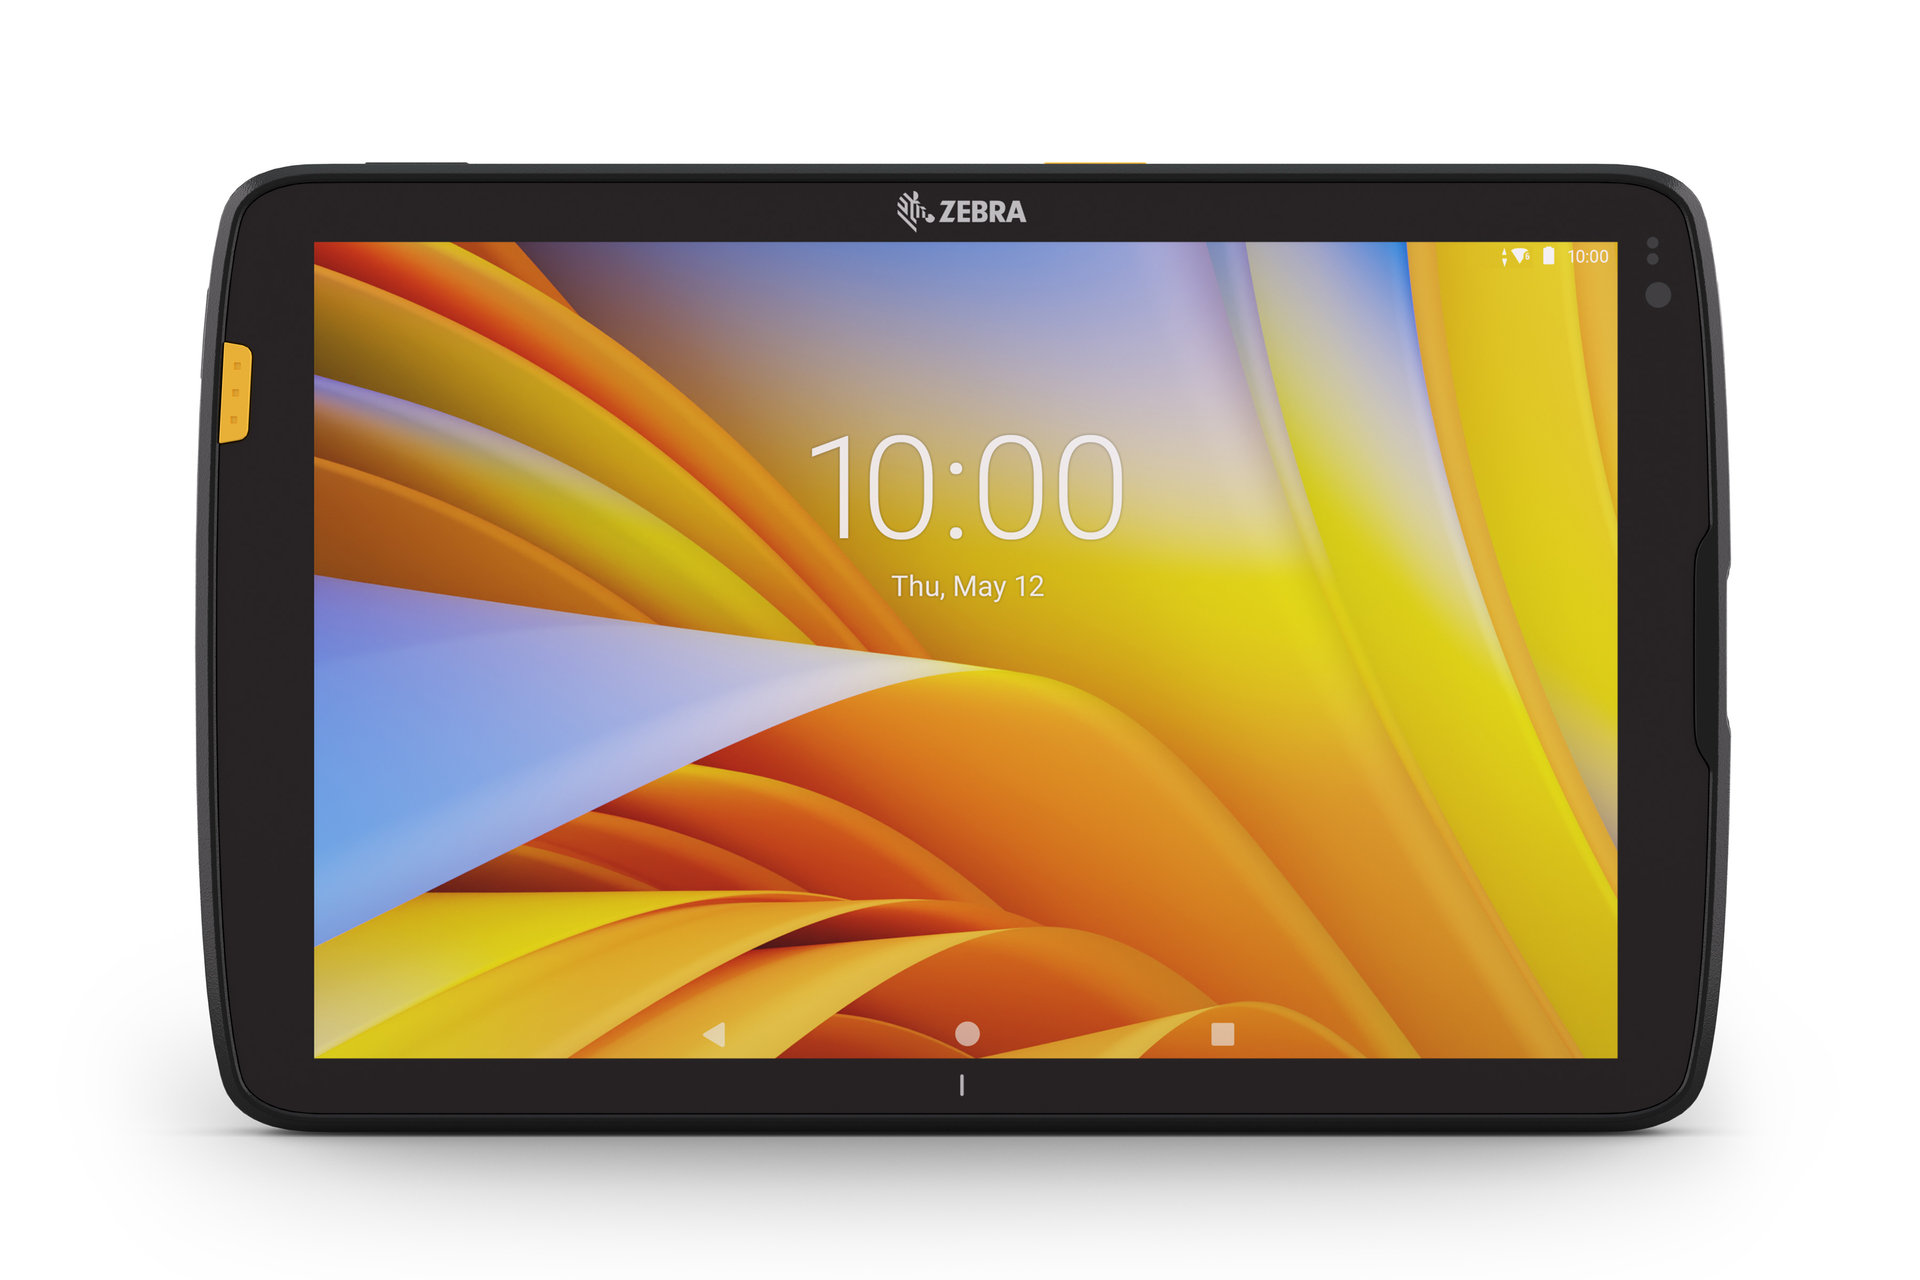
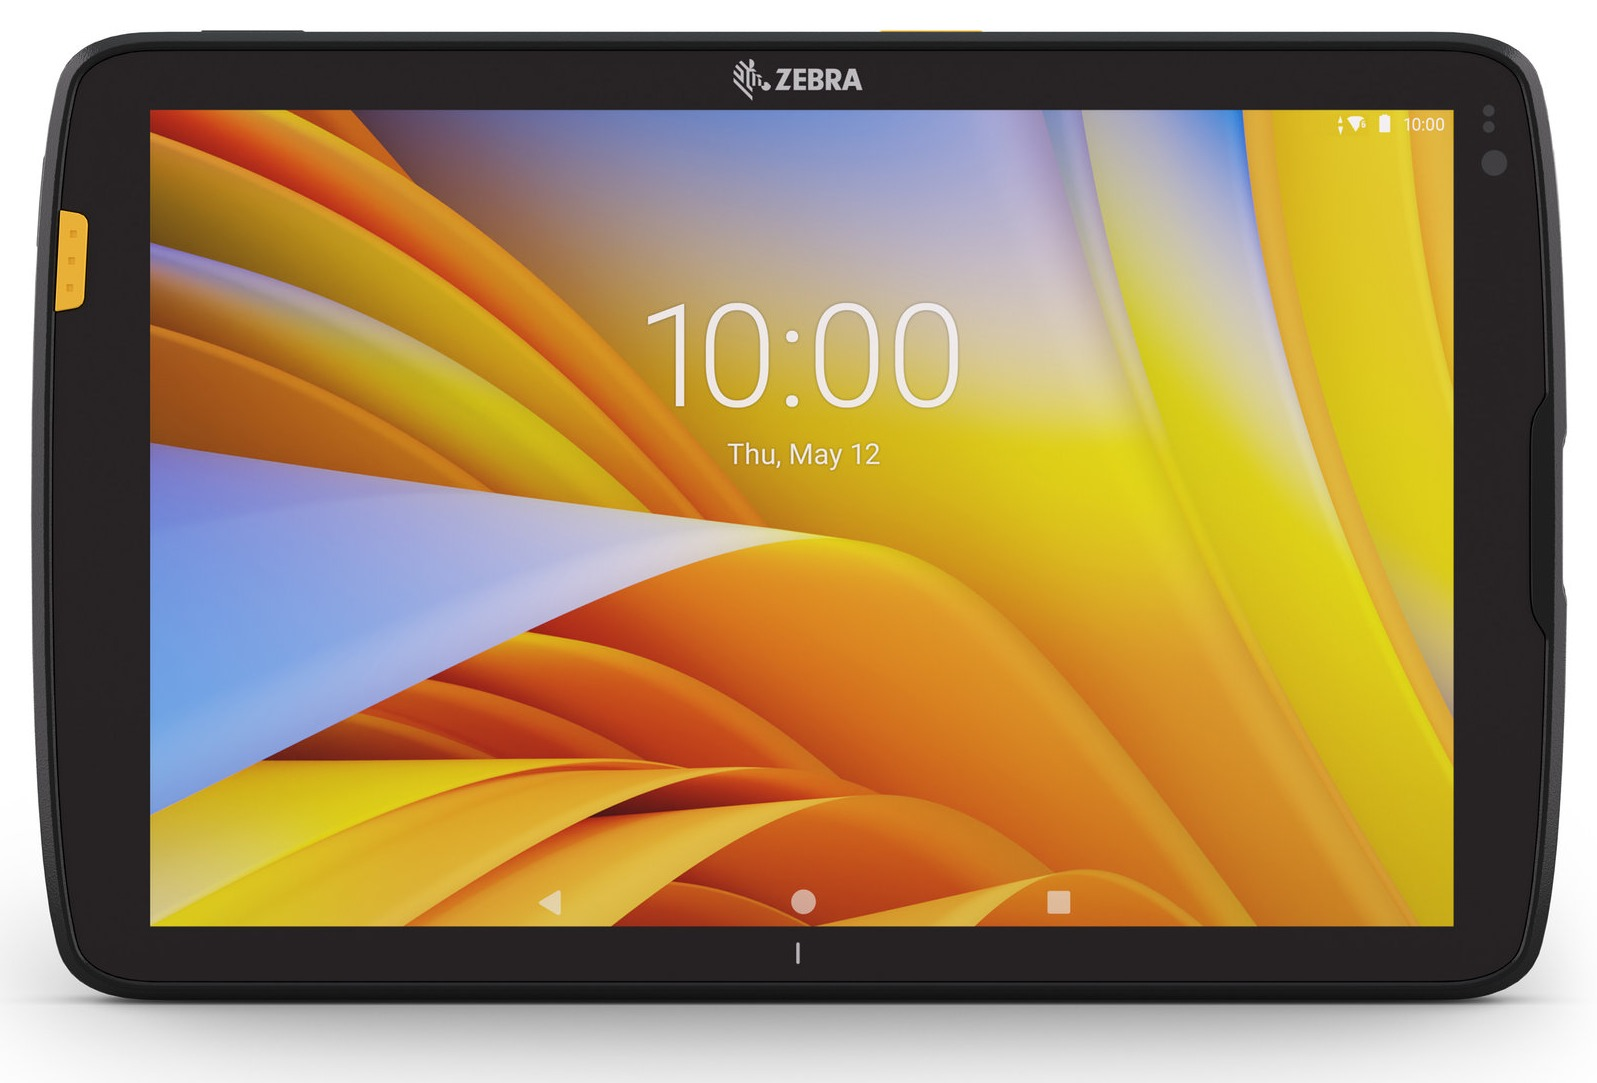
Marcha da maquina emulada e tablet maior
Emula o POU Start (Ladder) para ensinar a dar marcha:

  automatico -> carregar lote -> Marcha -> 3 s de pre-marcha -> RunMode

Quando RunMode sobe, os botoes de comando aparecem na tela, como na maquina.
Apertar Marcha sem lote nao faz nada - e o permissivo real do CLP, nao uma
limitacao da simulacao. Pausa (StopProcess) derruba a marcha.

Do mesmo POU vieram tambem: carregar e finalizar lote, o reset dos bits de
comando e o reset do modo automatico quando a emergencia cai.

Como ha temporizador, o simulador passou a rodar um scan periodico de 200 ms
em vez de reagir so a cliques.

Permissivos forcados no cenario: GeneralEMG e AirPressureOK em TRUE (os dois
sao TRUE quando esta tudo OK) e BatchManager.IsSaved em TRUE, para conseguir
carregar o lote. A maquina comeca sem lote, como de manha.

Tablet maior: a foto original era um product shot com muita margem branca.
Recortada ate o corpo do aparelho, a tela passou de 67,9% para 81,7% da
imagem, e a moldura agora ocupa 90% da altura util da secao.

Verificado no navegador: a sequencia completa, a temporizacao de 3 s e a
queda da marcha na pausa.

diff --git a/ls-b130/sim/logica.js b/ls-b130/sim/logica.js
@@ -1,9 +1,10 @@
 // ---------------------------------------------------------------------------
 // LOGICA DO CLP EMULADA EM JAVASCRIPT - PURA, roda em Node e no navegador.
 //
-// ATENCAO: este arquivo e uma COPIA da logica que roda no CLP, transcrita do
-// POU  POUs^Recipes^RecipesLogic  e de suas acoes RecipeValidation,
-// RecipeNameDuplicate, TimeCalculation, LiquidsList e PowdersList.
+// ATENCAO: este arquivo e uma COPIA da logica que roda no CLP, transcrita de:
+//   POUs^Recipes^RecipesLogic  (e as acoes RecipeValidation, RecipeNameDuplicate,
+//                               TimeCalculation, LiquidsList, PowdersList)
+//   POUs^Start                 (marcha, pre-marcha e comandos de lote - Ladder)
 //
 // Se alguem alterar o ST no projeto do CLP, ESTE ARQUIVO FICA DESATUALIZADO em
 // silencio. Ele existe para que a simulacao se comporte como a maquina em
@@ -214,6 +215,67 @@
     }
   }
 
+  // =========================================================================
+  // PROGRAM Start  (Ladder) - marcha da maquina
+  // =========================================================================
+  // Sequencia real: passar para automatico, carregar um lote e apertar Marcha.
+  // A pre-marcha segura por 3 s e so entao a maquina entra em marcha, que e
+  // quando os botoes de comando aparecem na tela.
+  //
+  // Polaridade importante: GeneralEMG e AirPressureOK sao TRUE quando esta
+  // tudo OK - quando GeneralEMG cai, o CLP derruba o modo automatico.
+  const G = P + 'MainGVL.';
+  const B = P + 'BatchManager.';
+  const LOTE = P + 'Batches.BatchLoaded';
+  const PRE_RUN = P + 'Start.PreRun';        // variavel local do POU, nao mapeada
+
+  var tonInicio = null;                      // TON_PreRun: instante em que ligou
+  var loteAntes = false;                     // deteccao de borda de BatchLoaded
+
+  const PRE_MARCHA_MS = 3000;                // t#3s no Ladder
+
+  function startCiclo(agora) {
+    // Rung "Reset do modo automatico"
+    if (!ler(G + 'GeneralEMG')) escrever(G + 'AutoMode', false);
+
+    // Rung "Comando para carregar lote": seta BatchLoaded e limpa o comando
+    if (ler(B + 'LoadBatch')) {
+      escrever(LOTE, true);
+      escrever(B + 'LoadBatch', false);
+    }
+
+    // Rung "Comando para finalizar lote"
+    if (ler(B + 'UnloadBatch')) {
+      escrever(LOTE, false);
+      escrever(B + 'UnloadBatch', false);
+    }
+
+    // Rung "Reseta os dados de consumo": borda de subida de BatchLoaded
+    const lote = !!ler(LOTE);
+    if (lote && !loteAntes) escrever(P + 'Consumption.ResetConsumption', true);
+    loteAntes = lote;
+
+    // Rung "Posta em pre marcha" - com selo (a propria PreRun se mantem)
+    const partida = !!ler(G + 'StartTreatment') && !!ler(G + 'AirPressureOK') && !ler(G + 'RunMode');
+    const permissivos = !!ler(G + 'AutoMode') && !ler(G + 'StopProcess') &&
+                        !!ler(G + 'GeneralEMG') && lote;
+    const preRun = (partida || !!ler(PRE_RUN)) && permissivos;
+    escrever(PRE_RUN, preRun);
+
+    // Rung "Tempo de pre marcha" (TON) + "Inicio da marcha"
+    if (!preRun) {
+      tonInicio = null;
+    } else if (tonInicio === null) {
+      tonInicio = agora;
+    }
+    const emMarcha = preRun && tonInicio !== null && (agora - tonInicio) >= PRE_MARCHA_MS;
+    escrever(G + 'RunMode', emMarcha);
+
+    // Rung "Reset dos comandos": os bits de comando sao de um ciclo so
+    if (ler(G + 'StartTreatment')) escrever(G + 'StartTreatment', false);
+    if (ler(G + 'StopProcess')) escrever(G + 'StopProcess', false);
+  }
+
   // --- corpo do PROGRAM RecipesLogic ---------------------------------------
   function umCiclo() {
     if ((Number(ler(L + 'RecipeIndex')) || 0) === 0) escrever(L + 'RecipeIndex', OFF_LIB);
@@ -282,7 +344,8 @@
 
   // Alguns comandos setam outros (ExcludeRecipe liga Refresh). No CLP isso
   // resolve no ciclo seguinte; aqui rodamos ate estabilizar.
-  function ciclo() {
+  function ciclo(agora) {
+    startCiclo(typeof agora === 'number' ? agora : Date.now());
     for (let i = 0; i < 6; i++) {
       umCiclo();
       if (!pendente()) break;

diff --git a/nucleo/logica.js b/nucleo/logica.js
@@ -1,9 +1,10 @@
 // ---------------------------------------------------------------------------
 // LOGICA DO CLP EMULADA EM JAVASCRIPT - PURA, roda em Node e no navegador.
 //
-// ATENCAO: este arquivo e uma COPIA da logica que roda no CLP, transcrita do
-// POU  POUs^Recipes^RecipesLogic  e de suas acoes RecipeValidation,
-// RecipeNameDuplicate, TimeCalculation, LiquidsList e PowdersList.
+// ATENCAO: este arquivo e uma COPIA da logica que roda no CLP, transcrita de:
+//   POUs^Recipes^RecipesLogic  (e as acoes RecipeValidation, RecipeNameDuplicate,
+//                               TimeCalculation, LiquidsList, PowdersList)
+//   POUs^Start                 (marcha, pre-marcha e comandos de lote - Ladder)
 //
 // Se alguem alterar o ST no projeto do CLP, ESTE ARQUIVO FICA DESATUALIZADO em
 // silencio. Ele existe para que a simulacao se comporte como a maquina em
@@ -214,6 +215,67 @@
     }
   }
 
+  // =========================================================================
+  // PROGRAM Start  (Ladder) - marcha da maquina
+  // =========================================================================
+  // Sequencia real: passar para automatico, carregar um lote e apertar Marcha.
+  // A pre-marcha segura por 3 s e so entao a maquina entra em marcha, que e
+  // quando os botoes de comando aparecem na tela.
+  //
+  // Polaridade importante: GeneralEMG e AirPressureOK sao TRUE quando esta
+  // tudo OK - quando GeneralEMG cai, o CLP derruba o modo automatico.
+  const G = P + 'MainGVL.';
+  const B = P + 'BatchManager.';
+  const LOTE = P + 'Batches.BatchLoaded';
+  const PRE_RUN = P + 'Start.PreRun';        // variavel local do POU, nao mapeada
+
+  var tonInicio = null;                      // TON_PreRun: instante em que ligou
+  var loteAntes = false;                     // deteccao de borda de BatchLoaded
+
+  const PRE_MARCHA_MS = 3000;                // t#3s no Ladder
+
+  function startCiclo(agora) {
+    // Rung "Reset do modo automatico"
+    if (!ler(G + 'GeneralEMG')) escrever(G + 'AutoMode', false);
+
+    // Rung "Comando para carregar lote": seta BatchLoaded e limpa o comando
+    if (ler(B + 'LoadBatch')) {
+      escrever(LOTE, true);
+      escrever(B + 'LoadBatch', false);
+    }
+
+    // Rung "Comando para finalizar lote"
+    if (ler(B + 'UnloadBatch')) {
+      escrever(LOTE, false);
+      escrever(B + 'UnloadBatch', false);
+    }
+
+    // Rung "Reseta os dados de consumo": borda de subida de BatchLoaded
+    const lote = !!ler(LOTE);
+    if (lote && !loteAntes) escrever(P + 'Consumption.ResetConsumption', true);
+    loteAntes = lote;
+
+    // Rung "Posta em pre marcha" - com selo (a propria PreRun se mantem)
+    const partida = !!ler(G + 'StartTreatment') && !!ler(G + 'AirPressureOK') && !ler(G + 'RunMode');
+    const permissivos = !!ler(G + 'AutoMode') && !ler(G + 'StopProcess') &&
+                        !!ler(G + 'GeneralEMG') && lote;
+    const preRun = (partida || !!ler(PRE_RUN)) && permissivos;
+    escrever(PRE_RUN, preRun);
+
+    // Rung "Tempo de pre marcha" (TON) + "Inicio da marcha"
+    if (!preRun) {
+      tonInicio = null;
+    } else if (tonInicio === null) {
+      tonInicio = agora;
+    }
+    const emMarcha = preRun && tonInicio !== null && (agora - tonInicio) >= PRE_MARCHA_MS;
+    escrever(G + 'RunMode', emMarcha);
+
+    // Rung "Reset dos comandos": os bits de comando sao de um ciclo so
+    if (ler(G + 'StartTreatment')) escrever(G + 'StartTreatment', false);
+    if (ler(G + 'StopProcess')) escrever(G + 'StopProcess', false);
+  }
+
   // --- corpo do PROGRAM RecipesLogic ---------------------------------------
   function umCiclo() {
     if ((Number(ler(L + 'RecipeIndex')) || 0) === 0) escrever(L + 'RecipeIndex', OFF_LIB);
@@ -282,7 +344,8 @@
 
   // Alguns comandos setam outros (ExcludeRecipe liga Refresh). No CLP isso
   // resolve no ciclo seguinte; aqui rodamos ate estabilizar.
-  function ciclo() {
+  function ciclo(agora) {
+    startCiclo(typeof agora === 'number' ? agora : Date.now());
     for (let i = 0; i < 6; i++) {
       umCiclo();
       if (!pendente()) break;

diff --git a/ls-b130/index.html b/ls-b130/index.html
@@ -137,7 +137,7 @@
 (function(){
   'use strict';
 
-  var CFG = {"id":"ls-b130","nome":"LS-B130","tablet":{"modelo":"Zebra ET40 10\"","foto":"tablet.jpg","fotoLargura":1920,"fotoAltura":1280,"resolucao":{"largura":1280,"altura":800},"_comentario":"Retangulo da tela dentro da foto, medido pixel a pixel e expresso em % da imagem. A proporcao da tela (1,596) bate com a da IHM (1,600), entao o encaixe nao distorce.","tela":{"esquerda":16.354,"topo":18.906,"largura":67.917,"altura":63.828},"larguraMinima":1200,"alturaMinima":640}};
+  var CFG = {"id":"ls-b130","nome":"LS-B130","tablet":{"modelo":"Zebra ET40 10\"","foto":"tablet.jpg","fotoLargura":1597,"fotoAltura":1083,"resolucao":{"largura":1280,"altura":800},"_comentario":"Foto recortada ate o corpo do aparelho (a original tinha muita margem branca). Retangulo da tela medido pixel a pixel, em % da imagem recortada. A proporcao da tela (1,596) bate com a da IHM (1,600), entao o encaixe nao distorce.","tela":{"esquerda":9.393,"topo":10.157,"largura":81.653,"altura":75.439},"larguraMinima":1200,"alturaMinima":640,"ocupacaoAltura":0.9}};
 
   var TEXTOS = {
     pt:{ portal:'Portal', tablet:'Tablet', cheia:'Tela cheia', reiniciar:'Reiniciar',

diff --git a/ls-b130/sim/valores.js b/ls-b130/sim/valores.js
@@ -169,8 +169,17 @@ for (let dose = 0; dose < 20; dose++) {
   'PLC1.MainGVL.RunMode': false,
   'PLC1.MainGVL.AutoMode': false,
   'PLC1.MainGVL.SimulationMode': true,
+
+  // Permissivos de seguranca. Os dois sao TRUE quando esta tudo OK: no CLP,
+  // quando GeneralEMG cai, o modo automatico e derrubado e a marcha nao sobe.
   'PLC1.MainGVL.AirPressureOK': true,
-  'PLC1.MainGVL.GeneralEMG': false,
+  'PLC1.MainGVL.GeneralEMG': true,
+
+  // A maquina comeca parada e SEM lote, como de manha. A sequencia de
+  // treinamento e: carregar o lote na ordem de producao, passar para
+  // automatico e apertar Marcha (3 s de pre-marcha ate RunMode subir).
+  'PLC1.Batches.BatchLoaded': false,
+  'PLC1.BatchManager.IsSaved': true,
 
   // Tabelas de produtos e seus comboboxes
   'PLC1.Liquids.LiquidsTable': montarTabela(LIQUIDOS, 64),

diff --git a/maquinas/ls-b130/valores.js b/maquinas/ls-b130/valores.js
@@ -169,8 +169,17 @@ for (let dose = 0; dose < 20; dose++) {
   'PLC1.MainGVL.RunMode': false,
   'PLC1.MainGVL.AutoMode': false,
   'PLC1.MainGVL.SimulationMode': true,
+
+  // Permissivos de seguranca. Os dois sao TRUE quando esta tudo OK: no CLP,
+  // quando GeneralEMG cai, o modo automatico e derrubado e a marcha nao sobe.
   'PLC1.MainGVL.AirPressureOK': true,
-  'PLC1.MainGVL.GeneralEMG': false,
+  'PLC1.MainGVL.GeneralEMG': true,
+
+  // A maquina comeca parada e SEM lote, como de manha. A sequencia de
+  // treinamento e: carregar o lote na ordem de producao, passar para
+  // automatico e apertar Marcha (3 s de pre-marcha ate RunMode subir).
+  'PLC1.Batches.BatchLoaded': false,
+  'PLC1.BatchManager.IsSaved': true,
 
   // Tabelas de produtos e seus comboboxes
   'PLC1.Liquids.LiquidsTable': montarTabela(LIQUIDOS, 64),

diff --git a/ls-b130/sim/protocolo.js b/ls-b130/sim/protocolo.js
@@ -143,6 +143,13 @@
       return sessao;
     }
 
+    // Um scan do CLP: roda a logica e empurra o que mudou para os inscritos.
+    // Precisa ser periodico porque ha temporizador (a pre-marcha de 3 s).
+    function scan() {
+      logica.ciclo(Date.now());
+      difundir();
+    }
+
     // Deixa o cenario coerente antes do primeiro cliente.
     function arrancar() {
       logica.listasDeProdutos();
@@ -151,7 +158,7 @@
     }
 
     return {
-      estadoDoServidor, novaSessao, arrancar, difundir, valorDe,
+      estadoDoServidor, novaSessao, arrancar, difundir, scan, valorDe,
       simbolosDesconhecidos: () => Object.fromEntries(desconhecidos)
     };
   }

diff --git a/nucleo/protocolo.js b/nucleo/protocolo.js
@@ -143,6 +143,13 @@
       return sessao;
     }
 
+    // Um scan do CLP: roda a logica e empurra o que mudou para os inscritos.
+    // Precisa ser periodico porque ha temporizador (a pre-marcha de 3 s).
+    function scan() {
+      logica.ciclo(Date.now());
+      difundir();
+    }
+
     // Deixa o cenario coerente antes do primeiro cliente.
     function arrancar() {
       logica.listasDeProdutos();
@@ -151,7 +158,7 @@
     }
 
     return {
-      estadoDoServidor, novaSessao, arrancar, difundir, valorDe,
+      estadoDoServidor, novaSessao, arrancar, difundir, scan, valorDe,
       simbolosDesconhecidos: () => Object.fromEntries(desconhecidos)
     };
   }

diff --git a/ls-b130/sim/sim.js b/ls-b130/sim/sim.js
@@ -58,6 +58,13 @@
   const protocolo = window.SimProtocolo.criar({ esquema: esquema, estado: estado, logica: logica });
   protocolo.arrancar();
 
+  // O CLP varre continuamente. Sem isso, temporizadores como a pre-marcha de
+  // 3 s da marcha nunca avancariam, porque o simulador so reagia a cliques.
+  const INTERVALO_SCAN = 200;
+  setInterval(function () {
+    try { protocolo.scan(); } catch (e) { console.error('[sim] erro no scan:', e); }
+  }, INTERVALO_SCAN);
+
   // Util para depurar pelo console do navegador.
   window.SIM = {
     ler: estado.ler,

diff --git a/web/sim.js b/web/sim.js
@@ -58,6 +58,13 @@
   const protocolo = window.SimProtocolo.criar({ esquema: esquema, estado: estado, logica: logica });
   protocolo.arrancar();
 
+  // O CLP varre continuamente. Sem isso, temporizadores como a pre-marcha de
+  // 3 s da marcha nunca avancariam, porque o simulador so reagia a cliques.
+  const INTERVALO_SCAN = 200;
+  setInterval(function () {
+    try { protocolo.scan(); } catch (e) { console.error('[sim] erro no scan:', e); }
+  }, INTERVALO_SCAN);
+
   // Util para depurar pelo console do navegador.
   window.SIM = {
     ler: estado.ler,

diff --git a/README.md b/README.md
@@ -40,9 +40,20 @@ e abrir a simulação com `?reset=1` devolve tudo ao cenário inicial.
 
 ## ⚠ Sobre `nucleo/logica.js`
 
-Esse arquivo é uma **cópia, em JavaScript, de lógica que roda no CLP** — transcrita do POU
-`POUs^Recipes^RecipesLogic` e de suas ações (`RecipeValidation`, `RecipeNameDuplicate`,
-`TimeCalculation`, `LiquidsList`, `PowdersList`).
+Esse arquivo é uma **cópia, em JavaScript, de lógica que roda no CLP** — transcrita de:
+
+- `POUs^Recipes^RecipesLogic` e suas ações (`RecipeValidation`, `RecipeNameDuplicate`,
+  `TimeCalculation`, `LiquidsList`, `PowdersList`)
+- `POUs^Start` (Ladder) — marcha, pré-marcha e comandos de lote
+
+A marcha segue a sequência real da máquina: **passar para automático → carregar um lote →
+apertar Marcha**, com 3 s de pré-marcha antes de `RunMode` subir, quando os botões de comando
+aparecem. Apertar Marcha sem lote não faz nada, igual à máquina. `GeneralEMG` e
+`AirPressureOK` são TRUE quando está tudo OK; quando `GeneralEMG` cai, o CLP derruba o modo
+automático.
+
+Como há temporizador, o simulador roda um **scan periódico de 200 ms** (`protocolo.scan()`),
+não só quando alguém clica.
 
 **Se alguém alterar o ST no projeto do CLP, esse arquivo fica desatualizado em silêncio.**
 Ele existe para que o treinamento se comporte como a máquina; nunca é fonte da verdade.
